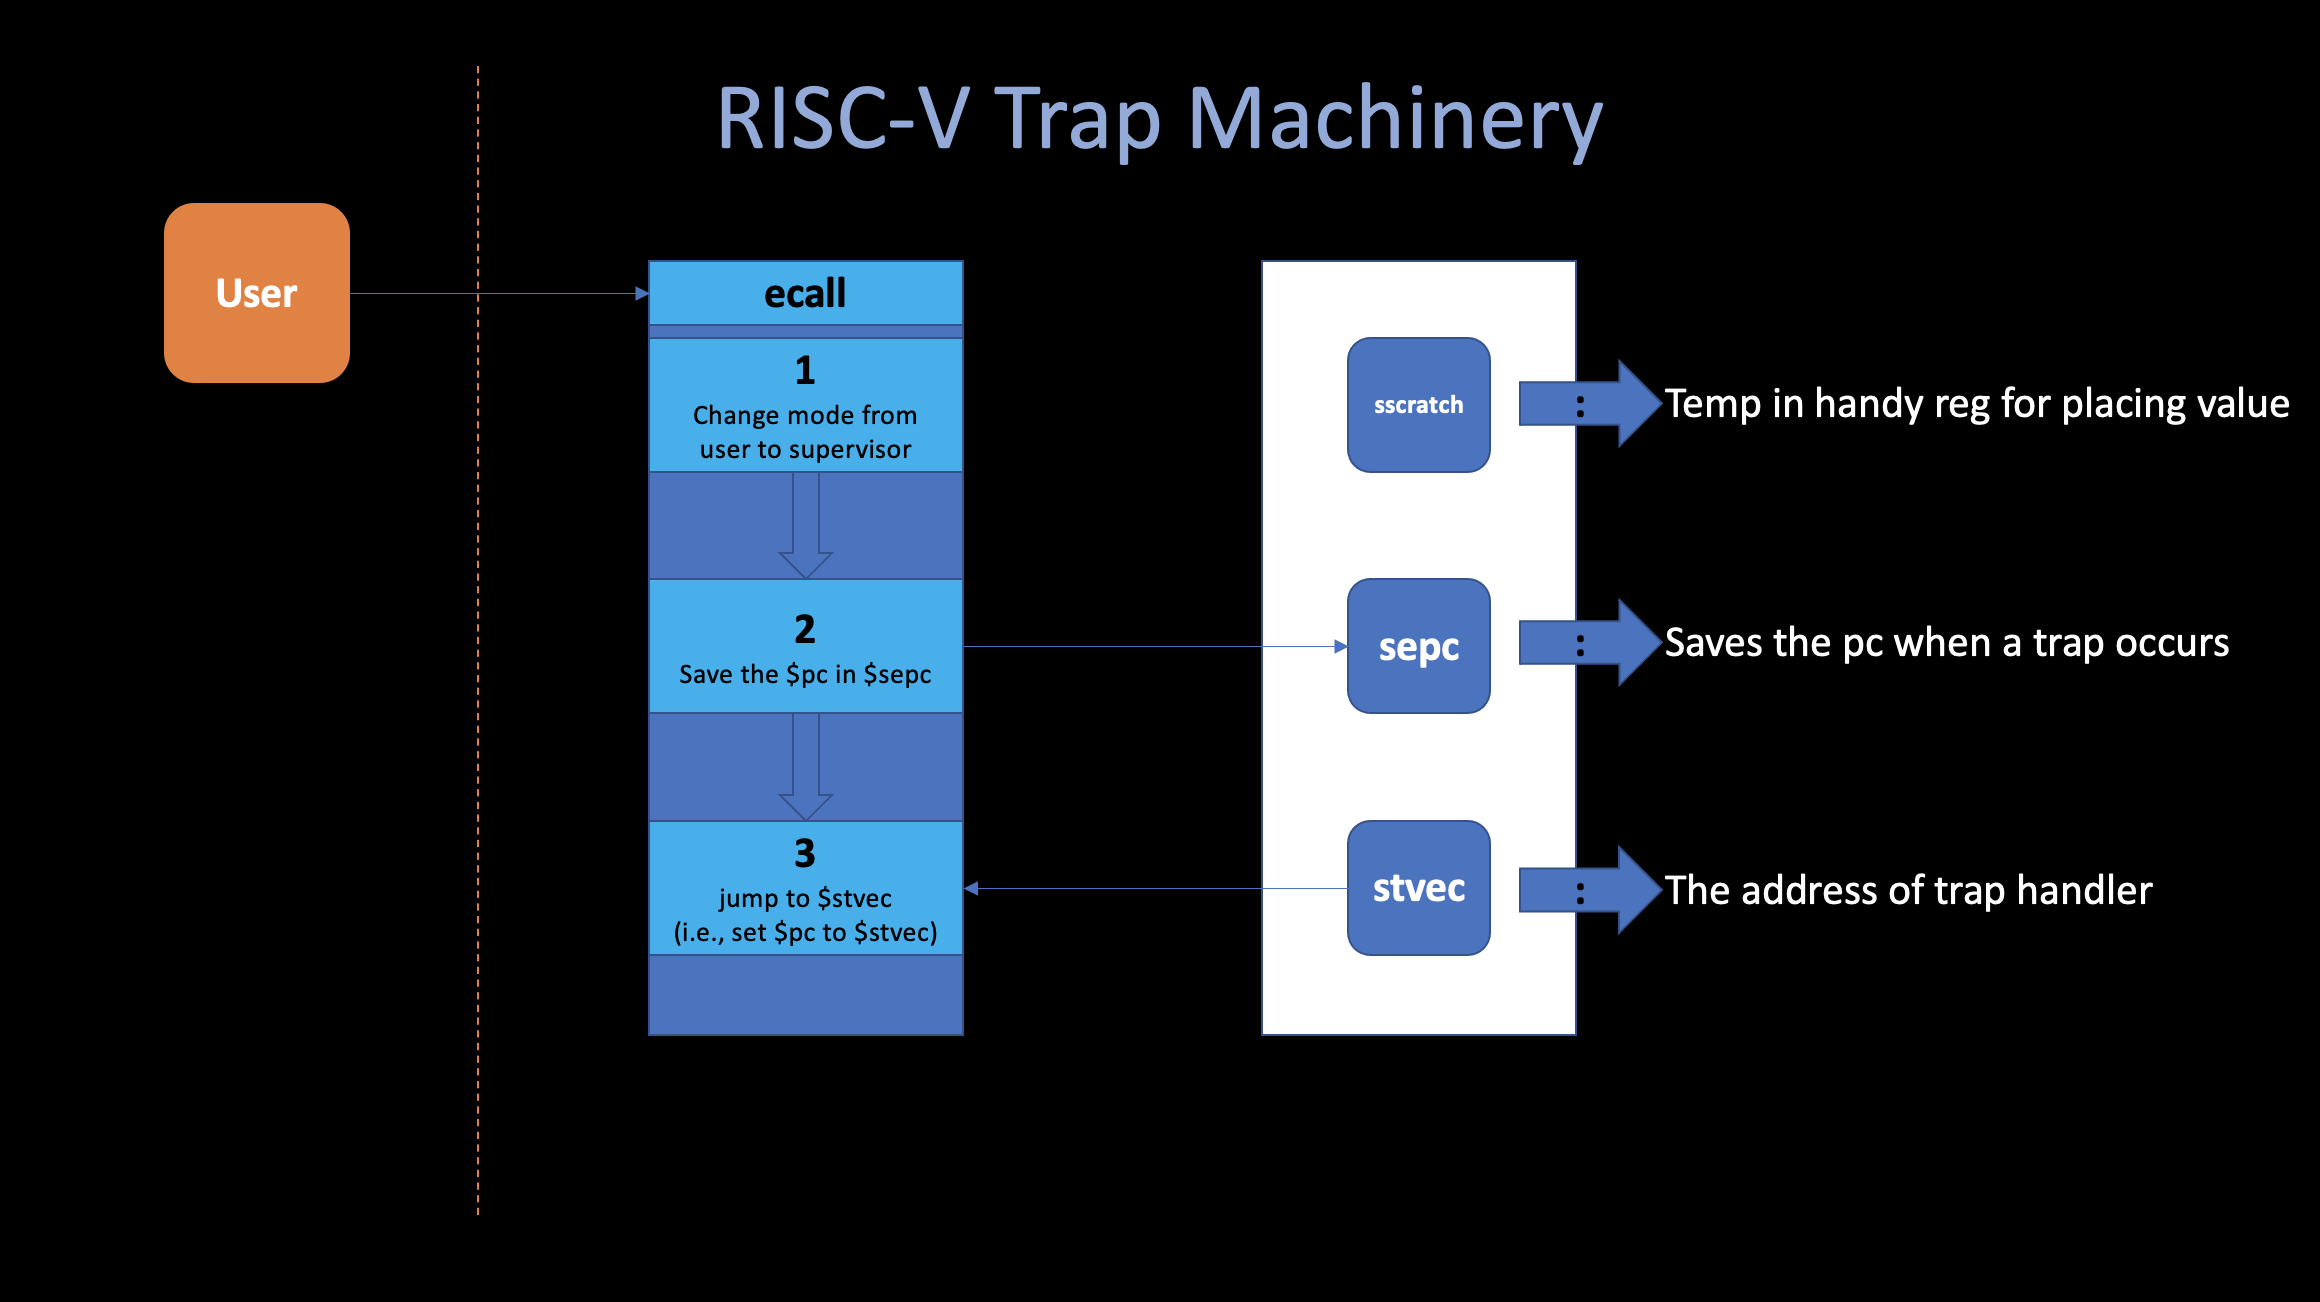
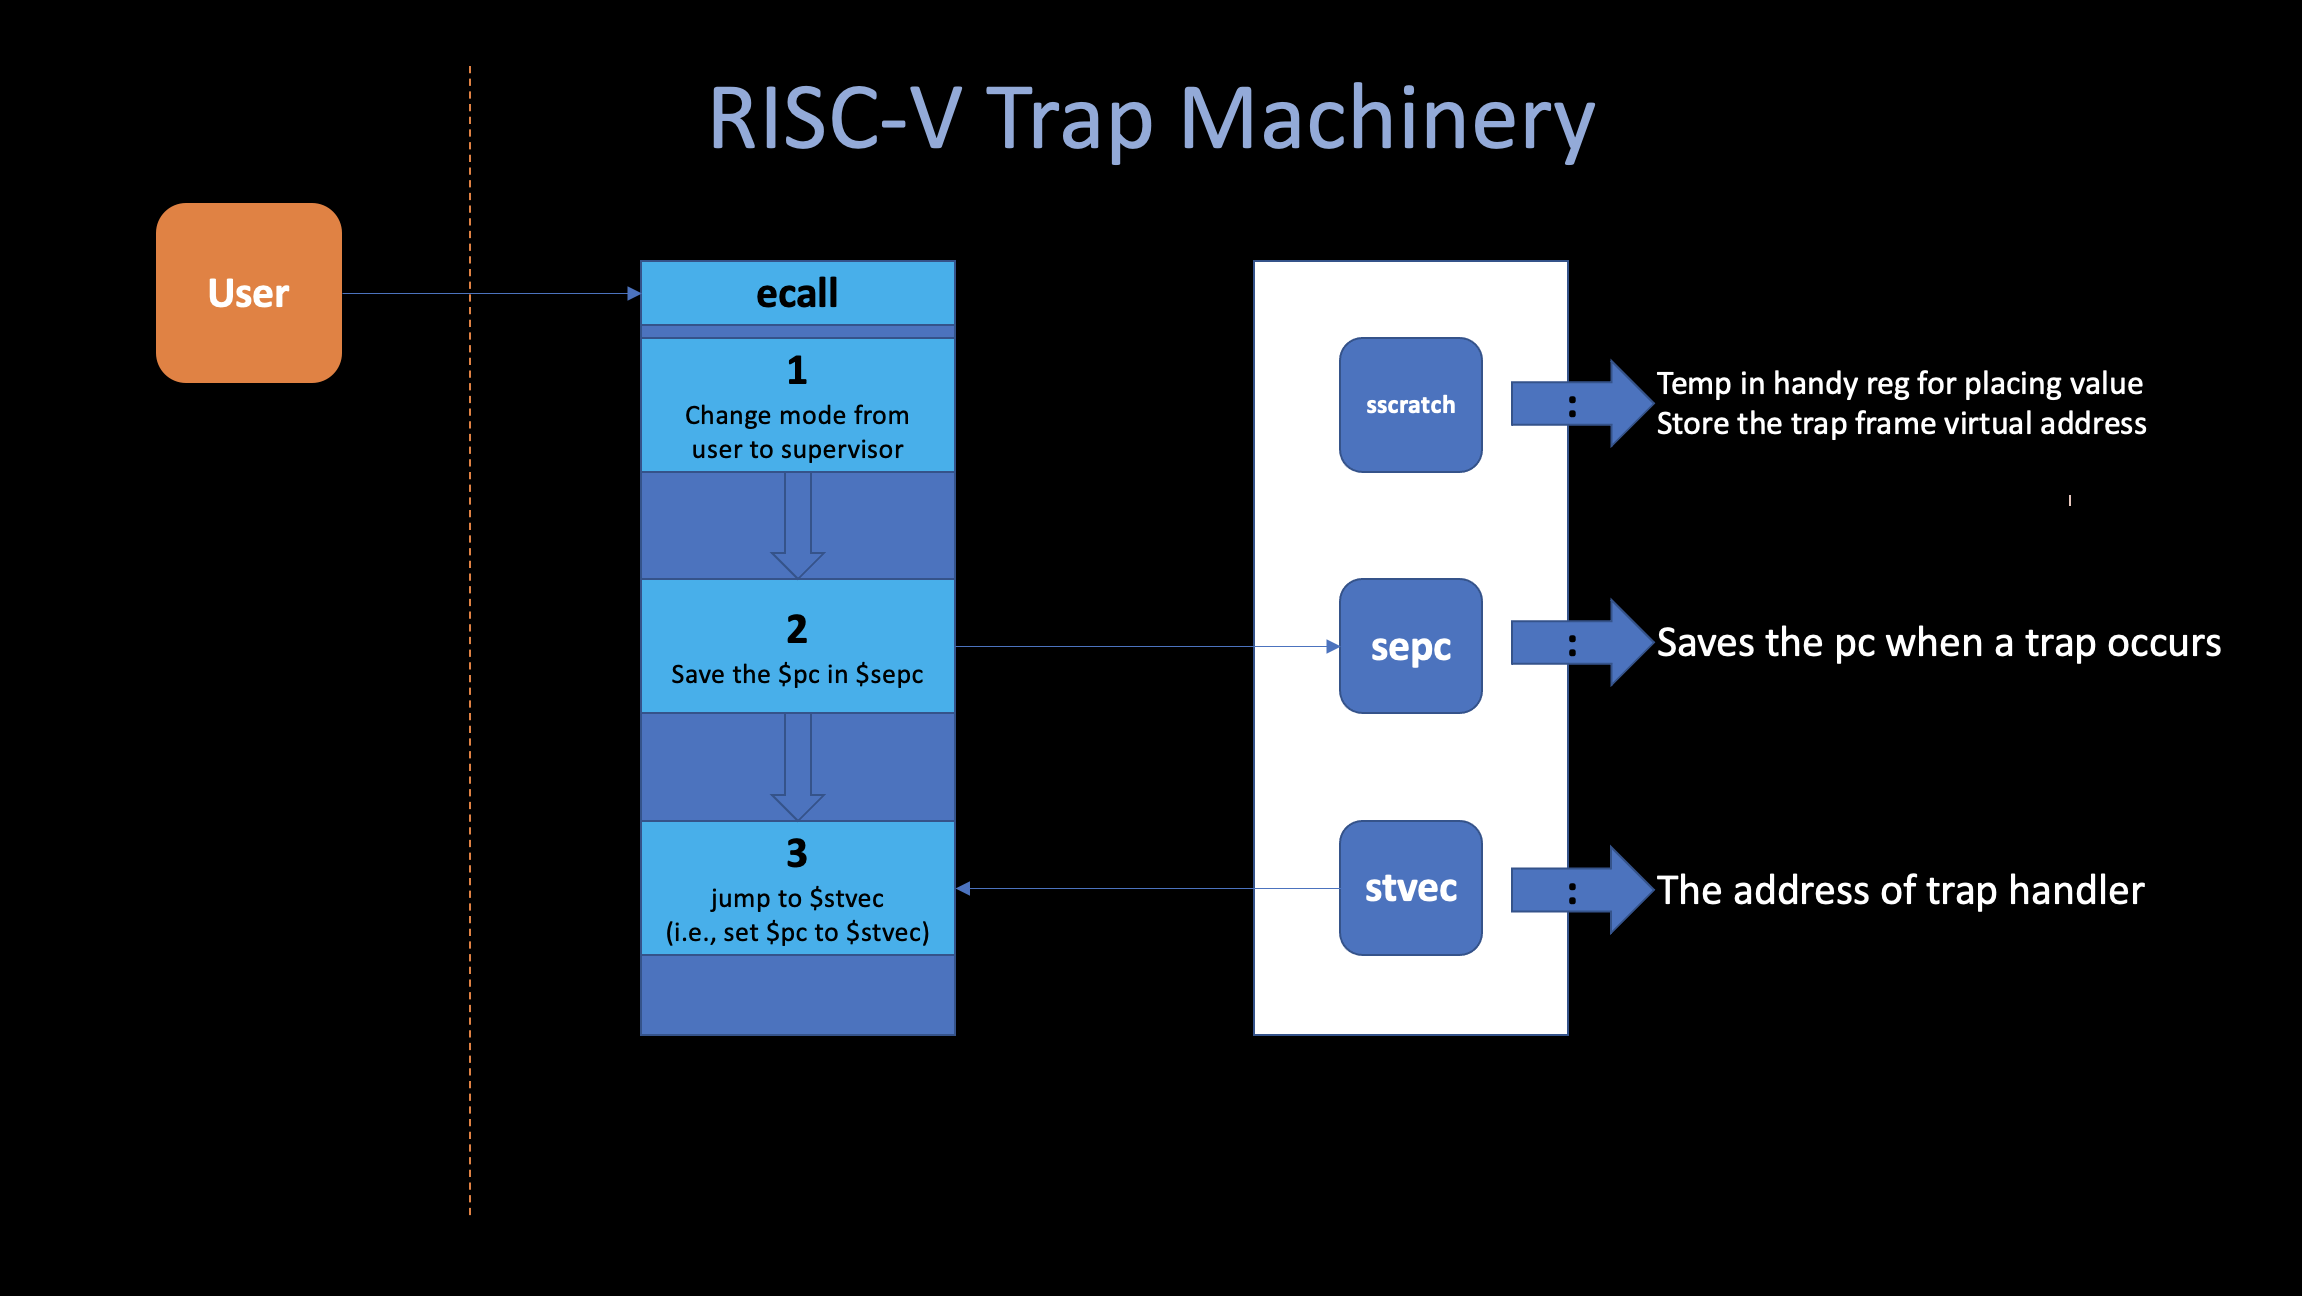
traps trampoline

diff --git a/docs/lectures/3Traps.md b/docs/lectures/3Traps.md
@@ -598,6 +598,238 @@ $6 = 0x3fffffe000
 
 ## 2. Trampoline
 
+**We're executing in the "trampoline" page, which contains the start of the kernel's trap handling code**, `ecall` does as little as possible to allow maximum flexibility to the operating system programmer to design the os however they like.
+
+What need to happen now?
+* **Save the 32 user register values.** (so we can later restore them and when we want to resume the user code)
+    * we need to save those registers because we are going to run C code inside kernel, which will use all these registers.
+* **Switch to the kernel page table.**
+* Set up stack for kernel C code.
+* Jump to some sensible place in the C code in the kernel.
+
+### i. The Trap frame
+
+* **We don't even know the address of the kernel page table** 
+* We need some spare registers in order to execute change `$satp` instruction.
+
+**The xv6 maps a page, called trapframe into every user page table, it has space to to hold the saved registers**, the kernel gives each process a different trapframe page.
+
+The virtual address of that trapframe is stored in the **`$sscrach`** register, and you can find the struct trapframe in `kernel/proc.h`.
+
+```c
+// per-process data for the trap handling code in trampoline.S.
+// sits in a page by itself just under the trampoline page in the
+// user page table. not specially mapped in the kernel page table.
+// the sscratch register points here.
+// uservec in trampoline.S saves user registers in the trapframe,
+// then initializes registers from the trapframe's
+// kernel_sp, kernel_hartid, kernel_satp, and jumps to kernel_trap.
+// usertrapret() and userret in trampoline.S set up
+// the trapframe's kernel_*, restore user registers from the
+// trapframe, switch to the user page table, and enter user space.
+// the trapframe includes callee-saved user registers like s0-s11 because the
+// return-to-user path via usertrapret() doesn't return through
+// the entire kernel call stack.
+struct trapframe {
+  /*   0 */ uint64 kernel_satp;   // kernel page table
+  /*   8 */ uint64 kernel_sp;     // top of process's kernel stack
+  /*  16 */ uint64 kernel_trap;   // usertrap()
+  /*  24 */ uint64 epc;           // saved user program counter
+  /*  32 */ uint64 kernel_hartid; // saved kernel tp
+  /*  40 */ uint64 ra;
+  /*  48 */ uint64 sp;
+  /*  56 */ uint64 gp;
+  /*  64 */ uint64 tp;
+  /*  72 */ uint64 t0;
+  /*  80 */ uint64 t1;
+  /*  88 */ uint64 t2;
+  /*  96 */ uint64 s0;
+  /* 104 */ uint64 s1;
+  /* 112 */ uint64 a0;
+  /* 120 */ uint64 a1;
+  /* 128 */ uint64 a2;
+  /* 136 */ uint64 a3;
+  /* 144 */ uint64 a4;
+  /* 152 */ uint64 a5;
+  /* 160 */ uint64 a6;
+  /* 168 */ uint64 a7;
+  /* 176 */ uint64 s2;
+  /* 184 */ uint64 s3;
+  /* 192 */ uint64 s4;
+  /* 200 */ uint64 s5;
+  /* 208 */ uint64 s6;
+  /* 216 */ uint64 s7;
+  /* 224 */ uint64 s8;
+  /* 232 */ uint64 s9;
+  /* 240 */ uint64 s10;
+  /* 248 */ uint64 s11;
+  /* 256 */ uint64 t3;
+  /* 264 */ uint64 t4;
+  /* 272 */ uint64 t5;
+  /* 280 */ uint64 t6;
+};
+
+```
+
+
+### ii. The Trampoline
+
+**After `ecall`, as we mentioned before, the hardware set `$pc` to `$stvec`, which is the begining of the trapoline page**.
+
+The first instruction, `csrrw`. swap `$a0` register and `$sscratch`, as we can see, after executing this very first instruction, the `$a0` becomes `0x3fffffe000`, which is the begining of the trap page. And `$sscratch` is 2, which is the first argument of this `write` system call -- the file descriptor `2`.
+
+```
+(gdb) print/x $a0 
+$1 = 0x3fffffe000
+
+(gdb) print $sscratch
+$2 = 2
+```
+
+The very next 32 `sd` instructions in this trampoline code, store every 64-bit register to a different offset in the trap frame page.
+
+```assembly
+.globl trampoline
+trampoline:
+.align 4
+.globl uservec
+uservec:    
+	#
+        # trap.c sets stvec to point here, so
+        # traps from user space start here,
+        # in supervisor mode, but with a
+        # user page table.
+        #
+        # sscratch points to where the process's p->trapframe is
+        # mapped into user space, at TRAPFRAME.
+        #
+        
+	# swap a0 and sscratch
+        # so that a0 is TRAPFRAME
+        csrrw a0, sscratch, a0
+
+        # save the user registers in TRAPFRAME
+        sd ra, 40(a0)
+        sd sp, 48(a0)
+        sd gp, 56(a0)
+        sd tp, 64(a0)
+        sd t0, 72(a0)
+        sd t1, 80(a0)
+        sd t2, 88(a0)
+        sd s0, 96(a0)
+        sd s1, 104(a0)
+        sd a1, 120(a0)
+        sd a2, 128(a0)
+        sd a3, 136(a0)
+        sd a4, 144(a0)
+        sd a5, 152(a0)
+        sd a6, 160(a0)
+        sd a7, 168(a0)
+        sd s2, 176(a0)
+        sd s3, 184(a0)
+        sd s4, 192(a0)
+        sd s5, 200(a0)
+        sd s6, 208(a0)
+        sd s7, 216(a0)
+        sd s8, 224(a0)
+        sd s9, 232(a0)
+        sd s10, 240(a0)
+        sd s11, 248(a0)
+        sd t3, 256(a0)
+        sd t4, 264(a0)
+        sd t5, 272(a0)
+        sd t6, 280(a0)
+
+	# save the user a0 in p->trapframe->a0
+        csrr t0, sscratch
+        sd t0, 112(a0)
+
+        # restore kernel stack pointer from p->trapframe->kernel_sp
+        ld sp, 8(a0)
+
+        # make tp hold the current hartid, from p->trapframe->kernel_hartid
+        ld tp, 32(a0)
+
+        # load the address of usertrap(), p->trapframe->kernel_trap
+        ld t0, 16(a0)
+
+        # restore kernel page table from p->trapframe->kernel_satp
+        ld t1, 0(a0)
+        csrw satp, t1
+        sfence.vma zero, zero
+
+        # a0 is no longer valid, since the kernel page
+        # table does not specially map p->tf.
+
+        # jump to usertrap(), which does not return
+        jr t0
+```
+
+After save those 32 general-purpose registers, we need to restore some important register by execute `ld` instrucions, which will be used in the kernel space later on.
+
+#### Process's kernel stack pointer
+
+```
+(gdb) print/x $sp
+$5 = 0x3fffffc000
+```
+The process's kernel stack is up in high memory, because xv6 treats kernel stack especially so that it can put a guard page under each kernel stack.
+
+#### Process's current core
+
+```
+(gdb) print/x $tp
+$6 = 0x0
+```
+Since there is no direct way in RISC-V to figure out which of the multiple cores you're running on, xv6 actually keeps the core number called `kernel_hartid` in the `$tp` register.
+
+
+#### User trap
+
+```
+(gdb) print/x $t0
+$7 = 0x80001c38
+```
+
+Then we load the user trap c function address into `$t0`, which we'll jump to that location later on.
+
+#### Kernel page table
+
+```
+(gdb) print/x $satp
+$8 = 0x8000000000087fff
+```
+
+**As soon as the `ld` and `csrw` instruction executes, we'll switch page table from the user page table to kernel page table, after these instructions finished, we can see now we are in the kernel page table**. And now we are pretty much ready to execute c code in the kernel.
+
+```
+(qemu) info mem
+vaddr            paddr            size             attr
+---------------- ---------------- ---------------- -------
+000000000c000000 000000000c000000 0000000000001000 rw---ad
+000000000c001000 000000000c001000 0000000000001000 rw-----
+000000000c002000 000000000c002000 0000000000001000 rw---ad
+000000000c003000 000000000c003000 00000000001fe000 rw-----
+000000000c201000 000000000c201000 0000000000001000 rw---ad
+000000000c202000 000000000c202000 00000000001fe000 rw-----
+0000000010000000 0000000010000000 0000000000002000 rw---ad
+0000000080000000 0000000080000000 0000000000007000 r-x--a-
+0000000080007000 0000000080007000 0000000000001000 r-x----
+0000000080008000 0000000080008000 0000000000012000 rw---ad
+000000008001a000 000000008001a000 0000000000001000 rw-----
+000000008001b000 000000008001b000 0000000000005000 rw---ad
+0000000080020000 0000000080020000 0000000000006000 rw-----
+0000000080026000 0000000080026000 0000000000001000 rw---ad
+0000000080027000 0000000080027000 0000000007f35000 rw-----
+0000000087f5c000 0000000087f5c000 000000000001c000 rw---ad
+0000000087f78000 0000000087f78000 0000000000088000 rw-----
+0000003ffff7f000 0000000087f78000 000000000003e000 rw-----
+0000003fffffb000 0000000087fb6000 0000000000002000 rw---ad
+0000003ffffff000 0000000080007000 0000000000001000 r-x--a-
+```
+
+**Note that we just switched the page table while executing the code in trampoline page, you may wonder that why isn't there a crash at this point.**
+**The reason is that both kernel page table and user page table maps the trampoline page (same va) into same pa. (bottom of two page tables, both of them maps `0000003ffffff000` into `0000000080007000`)**
 
 
 
